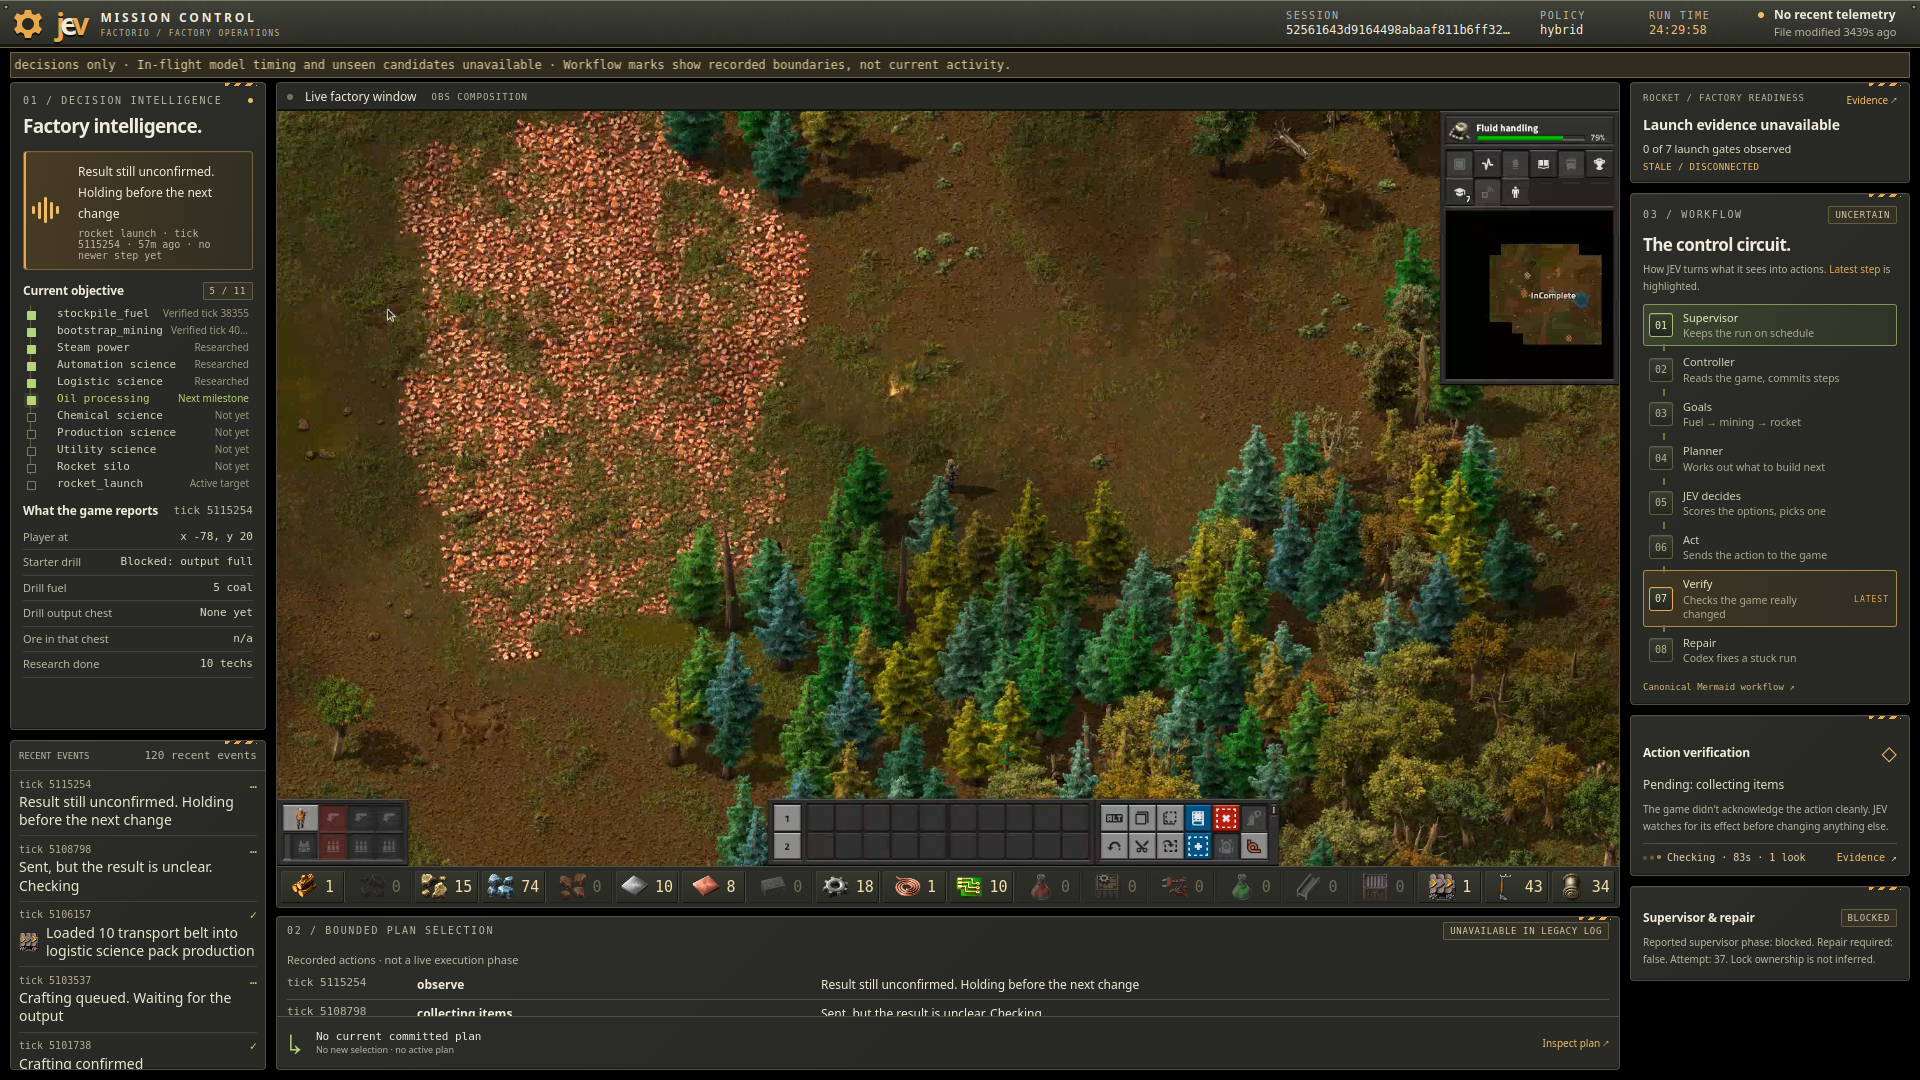
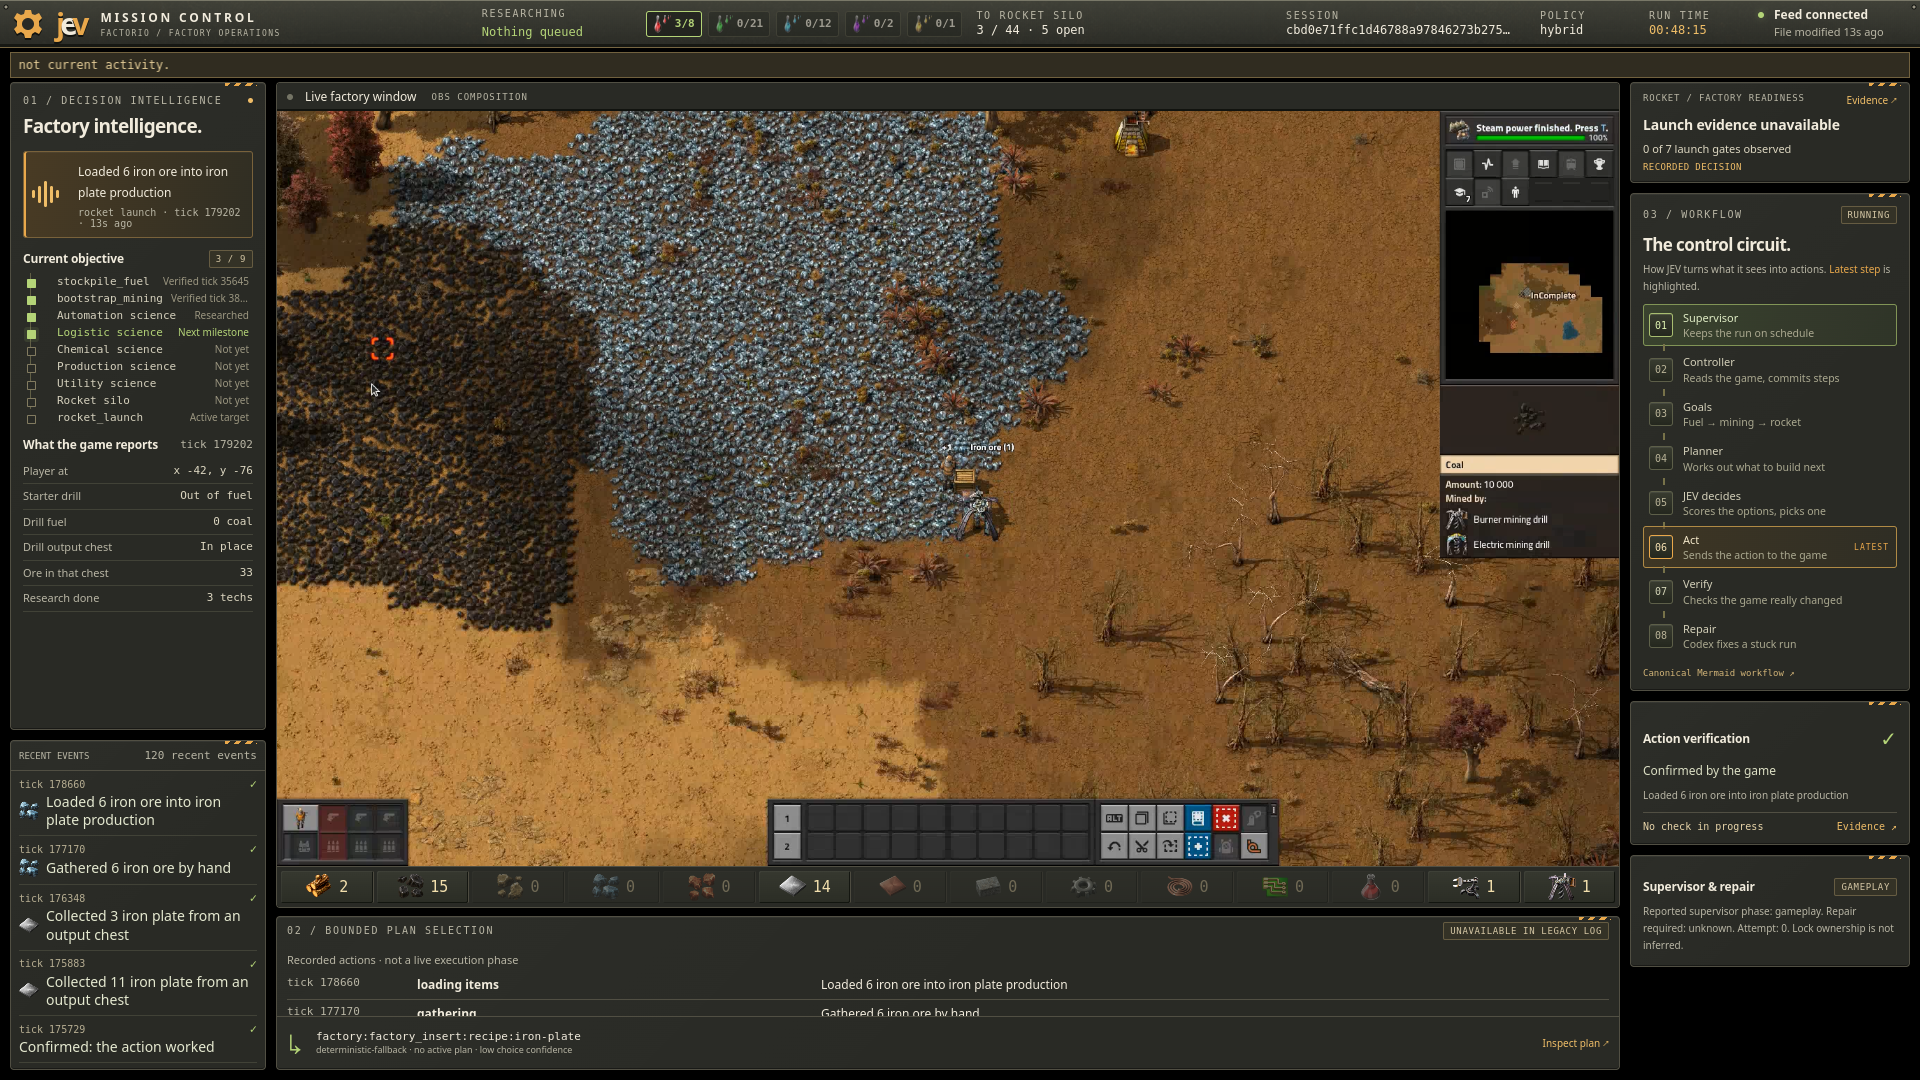
Refresh README overlay image for fresh Factorio run

diff --git a/README.md b/README.md
@@ -8,12 +8,11 @@ which has been live since 2026-09-27 02:09Z.
 ![Live JEV Mission Control overlay, OBS program output](art/jev-mission-control-overlay-live.png)
 
 *The full program output as streamed (scene **JEV Mission Control**, 1920x1080),
-captured from OBS on 2026-09-27 00:52Z while running `1eb7e1d`. The
-game video fills the center OBS COMPOSITION area and the overlay surrounds it.
-The **Current objective** tree on the left counts milestones toward a first
-rocket launch: the controller's verified goals plus the research milestones
-seen along the way. **RUN TIME** in the top bar shows how long the run has
-been going since the supervisor started it.*
+captured from OBS on 2026-09-28 00:33Z with `761ffc8` deployed and the fresh
+Factorio 2.0.77 game running. The game video fills the center OBS COMPOSITION
+area. The top bar shows the game's research tree progress and **RUN TIME**
+counting up from this run's start. The **Current objective** tree on the left
+combines verified controller goals and research milestones.*
 
 The offline / maintenance slate:
 

diff --git a/art/README.md b/art/README.md
@@ -29,7 +29,8 @@ AI-generated; the generation prompt was not recorded with the file.
 ## `jev-mission-control-overlay-live.png`
 
 1920x1080 screenshot of the live OBS program output (scene **JEV Mission Control**)
-on 2026-09-27 at 00:52Z, while `1eb7e1d` was deployed. It was taken with the
+on 2026-09-28 at 00:33Z, while `761ffc8` was deployed and the fresh Factorio
+2.0.77 game was running. It was taken with the
 `screenshot.request` trigger in `jev-factorio.lua`, which calls
 `obs_frontend_take_screenshot()`. OBS saved the original to
 `/mnt/recordings/sts2/program/`. The game footage in it is Factorio (Wube Software).
